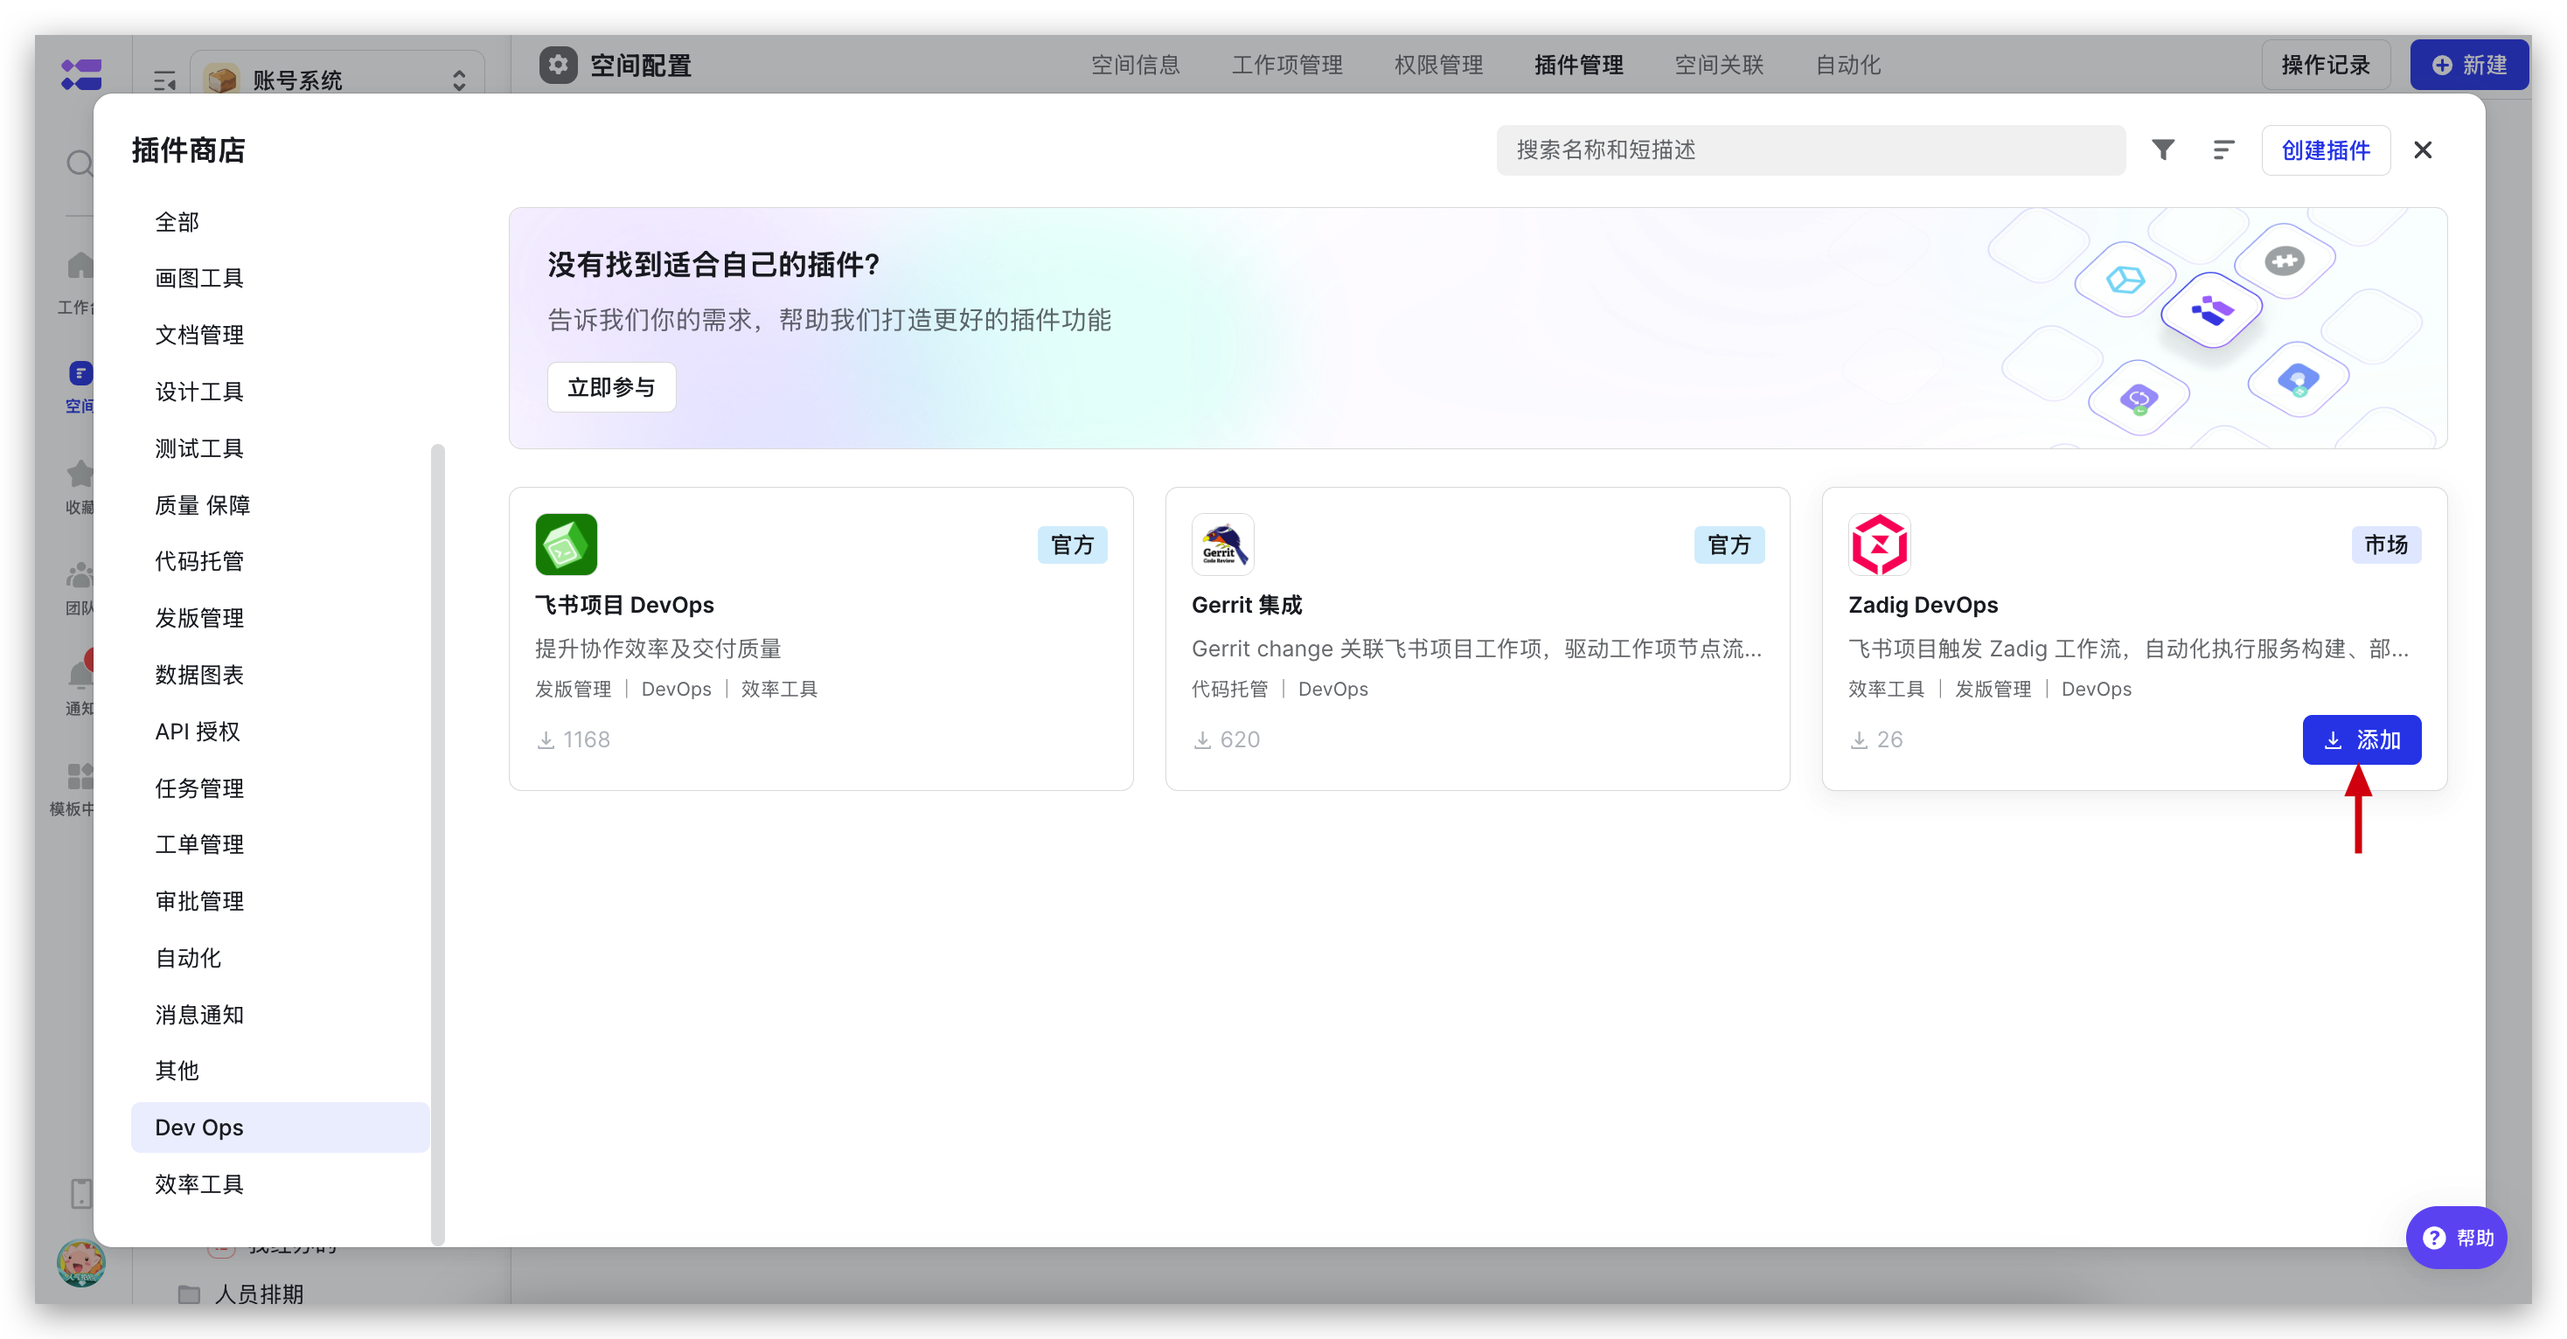
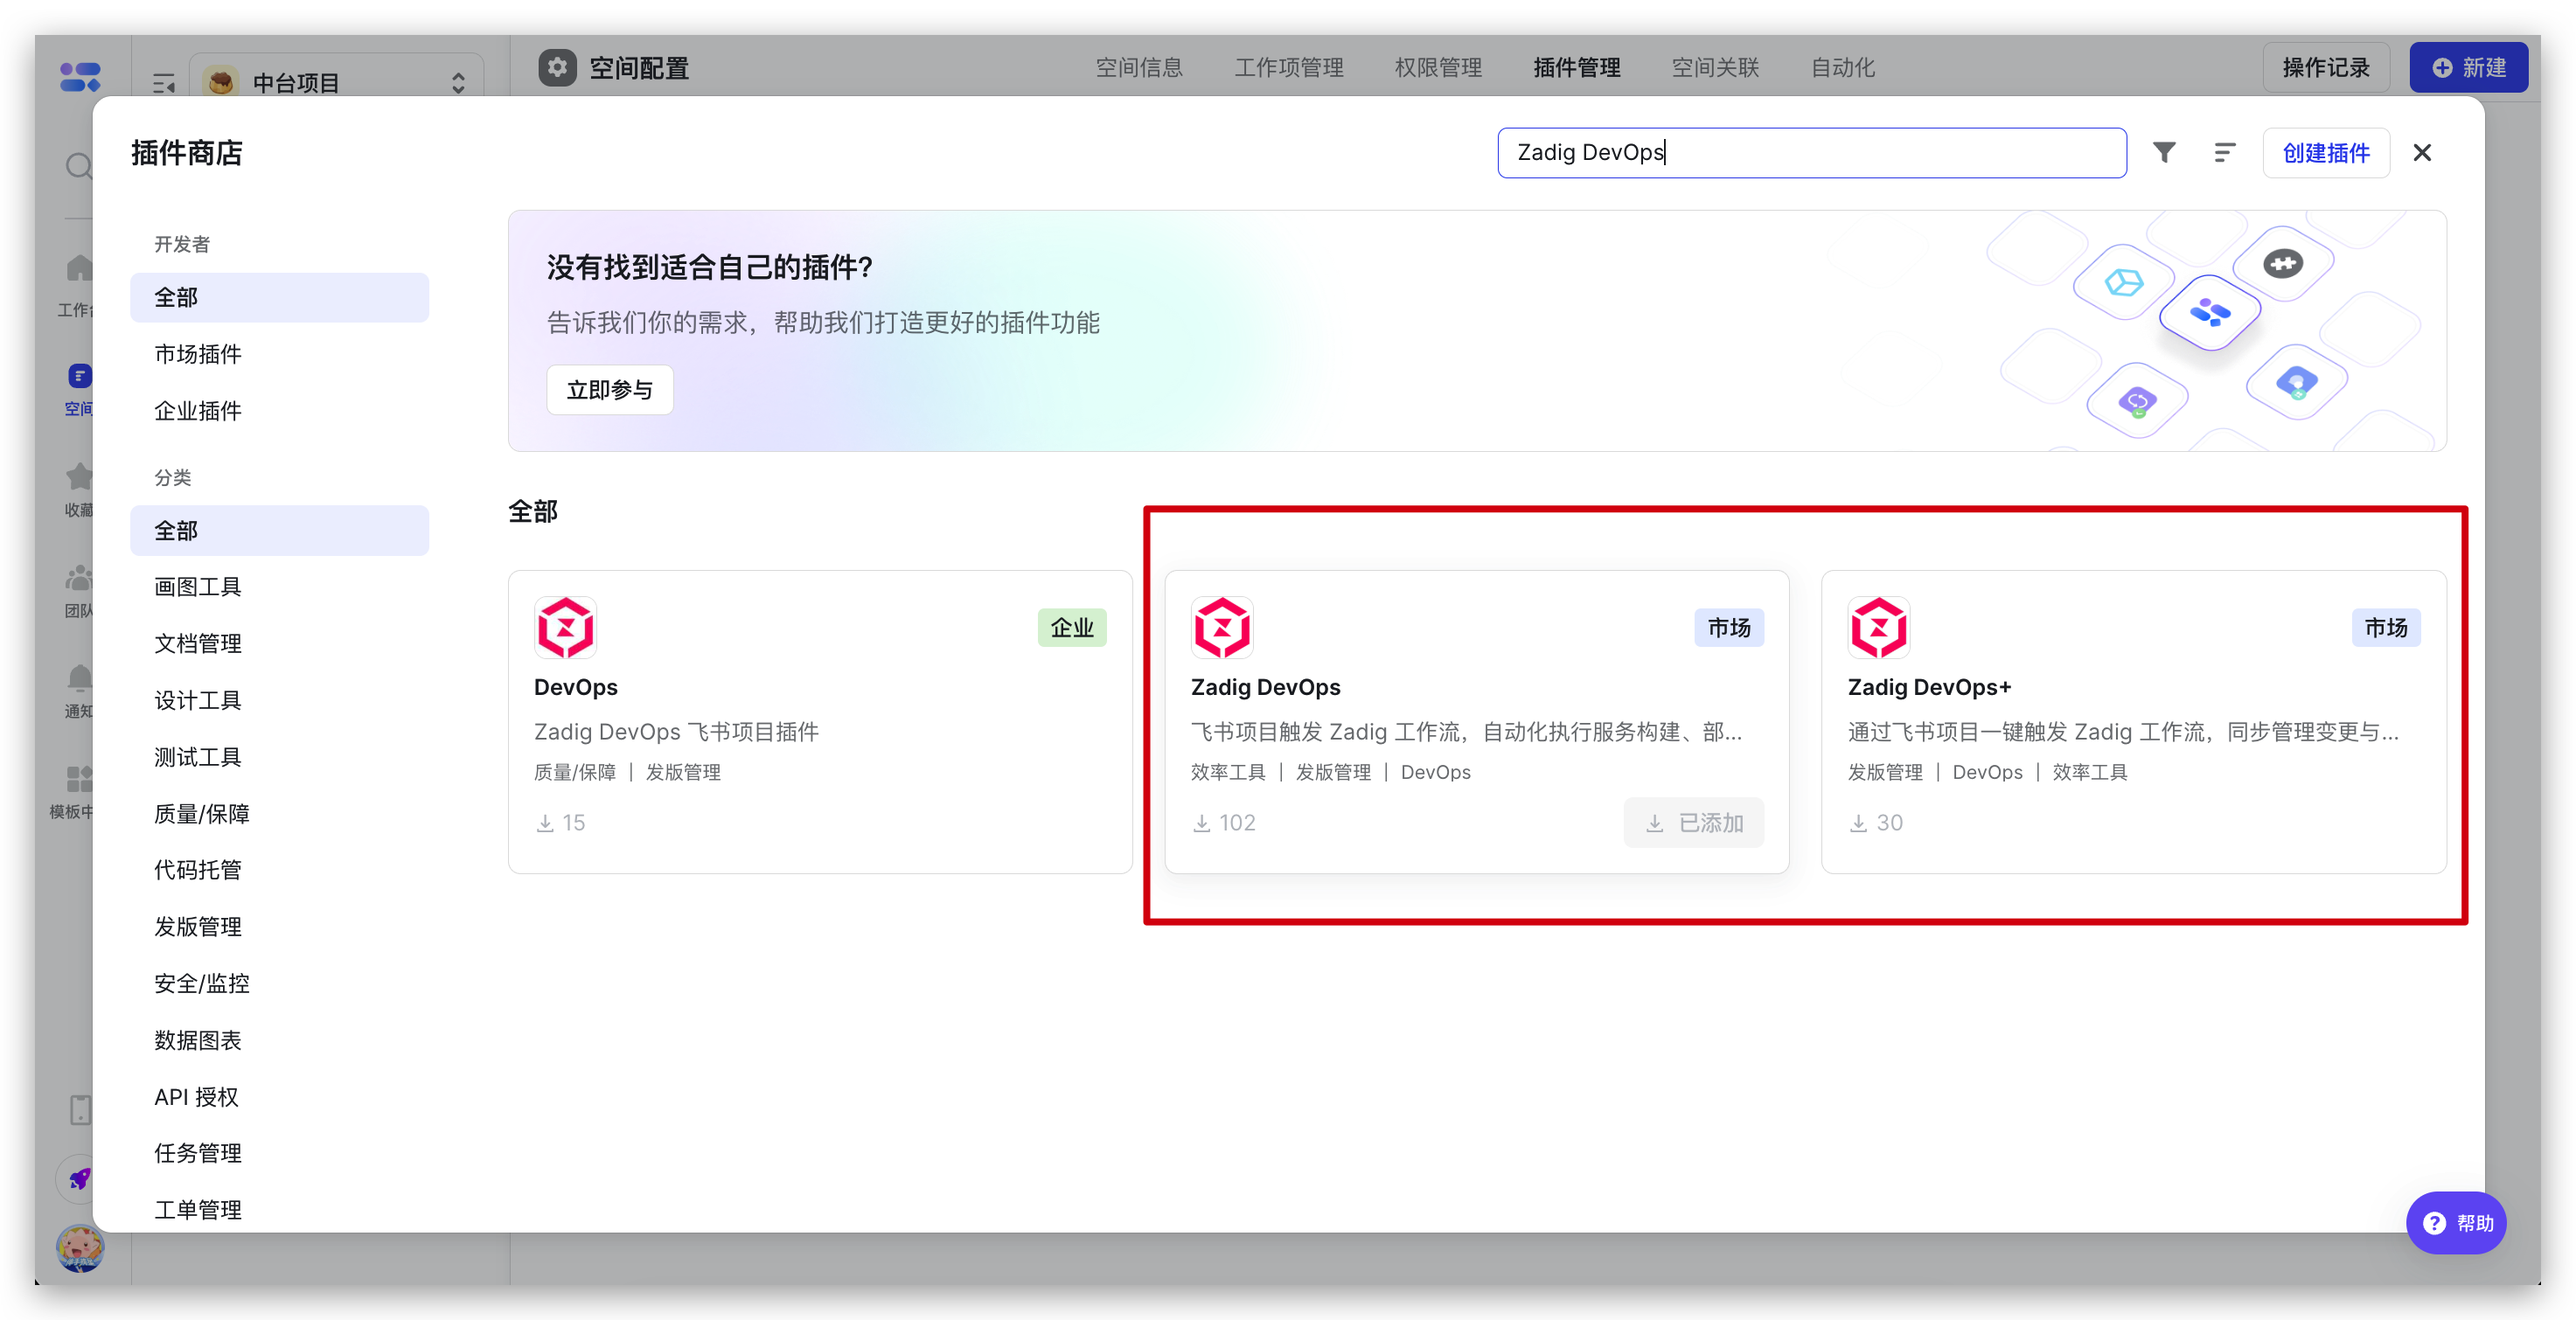
Update meego plugin docs and images

diff --git a/en/Zadig v4.2/05.Features/29.meego-plugin.md b/en/Zadig v4.2/05.Features/29.meego-plugin.md
@@ -4,45 +4,76 @@ date: 2025-10-09 15:32:35
 permalink: /en/Zadig v4.2/meego-plugin/
 ---
 
-The Zadig DevOps Lark Project Plugin allows triggering Zadig workflows from Lark Project, automating service build, deployment, and release operations to improve efficiency and ensure quality.
+Zadig Lark Project plugins enable triggering Zadig workflows from Lark Project, automating service build, deployment, and release operations to improve efficiency and ensure quality. Two plugins are available: **Zadig DevOps** and **Zadig DevOps+**.
 
-## Plugin Configuration
+Zadig DevOps works out of the box with zero configuration and suits small teams for quick integration and simple release scenarios. Zadig DevOps+ builds on it with change tracing, release order management, bidirectional data sync, and customization for large enterprises with complex release and compliance needs.
 
-### Install Plugin
+## Install Plugin
 
-Lark Project space administrators can find the "Zadig DevOps" plugin in plugin management, click "Add" to complete installation.
+Lark Project space administrators can find the "Zadig DevOps" or "Zadig DevOps+" plugin in plugin management and click "Add" to complete installation.
 
 ![Zadig DevOps](../../_images/meego_plugin_1.png)
 
+## Zadig DevOps+
+
 ### Plugin Configuration
 
-After installation, find the installed "Zadig DevOps" plugin in plugin management, click "Configure" on the right to start configuring the plugin.
+After installation, find the installed "Zadig DevOps+" plugin in plugin management and click "Configure" on the right. Set the mapping between each phase and Zadig workflows, as well as the branch strategy.
 
-![Zadig DevOps](../../_images/meego_plugin_2.png)
+![Zadig DevOps+](../../_images/meego_plugin+_1.png)
+![Zadig DevOps+](../../_images/meego_plugin+_2.png)
 
-Configure the corresponding relationship between work item nodes and Zadig workflows, as shown in the figure below.
+### Use Cases
 
-![Zadig DevOps](../../_images/meego_plugin_3.png)
+Zadig DevOps+ provides end-to-end change tracing and release order management for large enterprises. Developers submit change information (associated services, branches) in Lark Project and add it to release orders. Test results are automatically synced back, and releases use change information from the order directly. After confirmation, one-click release; execution runs automatically upon approval.
 
-## Use Cases
+**Development Phase: Submit Changes and Associate with Release Order**
 
-### Development and Self-Testing Phase: Update Development Environment and Perform Self-Testing Integration
+After development, developers submit change information (associated services, branches) in Lark Project and add it to the release order with one click. Changes can be reused multiple times. No system switching required; change records remain clear.
 
-Directly execute Zadig development workflows on Lark Project development nodes, automatically performing code scanning, unit testing, building, deployment, smoke testing, and other processes. Combined with configuration changes, data changes, and other capabilities, achieve consistent changes in the development process, reduce frequent system switching costs, and improve development efficiency.
+![Zadig DevOps+](../../_images/meego_plugin+_3.png)
+
+**Test Phase: View Execution Results in Real Time**
+
+After the test node runs a workflow, execution results are automatically synced to Lark Project. Pass/fail status at each stage is visible at a glance for quick response.
+
+![Zadig DevOps+](../../_images/meego_plugin+_4.png)
+
+**Release Phase: One-Click Release After Confirming Changes**
+
+When the release node runs a workflow, it uses change information from the release order. After confirming code is merged, release can proceed. Execution runs automatically after approval. The release process is efficient and controllable.
+
+<img src="../../_images/meego_plugin+_5.png" alt="Zadig DevOps+" width="400">
+<img src="../../_images/meego_plugin+_6.png" alt="Zadig DevOps+" width="400">
+
+## Zadig DevOps
+
+### Plugin Configuration
+
+After installation, find the installed "Zadig DevOps" plugin in plugin management and click "Configure" on the right to start configuration. Configure the corresponding relationship between work item nodes and Zadig workflows, as shown in the figures below.
+
+<img src="../../_images/meego_plugin_2.png" alt="Zadig DevOps" width="400">
+<img src="../../_images/meego_plugin_3.png" alt="Zadig DevOps" width="400">
+
+### Use Cases
+
+**Development and Self-Testing Phase: Update Development Environment and Perform Self-Testing Integration**
+
+Execute Zadig development workflows directly on Lark Project development nodes. Automate code scanning, unit testing, build, deployment, smoke testing, and other steps. Combined with configuration and data changes, achieve consistent changes in development, reduce system switching, and improve efficiency.
 
 <img src="../../_images/meego_plugin_4.png" alt="Development and Self-Testing Phase Diagram" width="400">
 <img src="../../_images/meego_plugin_5.png" alt="Development and Self-Testing Phase Diagram" width="400">
 
-### Integration Verification Phase: Update Test Environment and Perform Automated Verification
+**Integration Verification Phase: Update Test Environment and Perform Automated Verification**
 
-Directly execute Zadig test workflows on Lark Project test nodes, automatically completing interface testing, performance testing, security scanning, and other full processes to improve test verification efficiency and quality.
+Execute Zadig test workflows directly on Lark Project test nodes. Automate interface testing, performance testing, security scanning, and other steps to improve test verification efficiency and quality.
 
 <img src="../../_images/meego_plugin_6.png" alt="Integration Verification Phase Diagram" width="400">
 <img src="../../_images/meego_plugin_7.png" alt="Integration Verification Phase Diagram" width="400">
 
-### Production Release Phase: Combine Lark Approval for Production Release
+**Production Release Phase: Combine Lark Approval for Production Release**
 
-Directly execute Zadig release workflows on Lark Project release nodes, automatically completing service updates, configuration changes, data changes, and other processes. Combined with Lark approval applications, achieve efficient and stable releases.
+Execute Zadig release workflows directly on Lark Project release nodes. Automate service updates, configuration changes, data changes, and other steps. Combined with Lark approval, achieve efficient and stable releases.
 
 <img src="../../_images/meego_plugin_8.png" alt="Production Release Phase Diagram" width="400">
 <img src="../../_images/meego_plugin_9.png" alt="Production Release Phase Diagram" width="400">

diff --git a/cn/Zadig v4.2/05.功能介绍及最佳实践/29.meego-plugin.md b/cn/Zadig v4.2/05.功能介绍及最佳实践/29.meego-plugin.md
@@ -4,44 +4,73 @@ date: 2025-10-09 15:32:35
 permalink: /cn/Zadig v4.2/meego-plugin/
 ---
 
-Zadig DevOps 飞书项目插件允许在飞书项目触发 Zadig 工作流，自动化执行服务构建、部署、发布等操作，提升效率保障质量。
+Zadig 飞书项目插件支持在飞书项目触发 Zadig 工作流，自动化执行服务构建、部署、发布等操作，提升效率保障质量。目前提供 **Zadig DevOps** 和 **Zadig DevOps+** 两款插件。
 
-## 插件配置
+Zadig DevOps 开箱即用、零配置，适合小团队快速集成与简单发布场景。Zadig DevOps+ 在其基础上增强变更追溯、发布单管理、双向数据同步及定制能力，面向大型企业复杂发布与安全合规需求。
 
-### 安装插件
+## 安装插件
 
-飞书项目空间管理员在插件管理中找到「Zadig DevOps」插件，点击“添加” 完成安装。
+飞书项目空间管理员在插件管理中找到「Zadig DevOps」或「Zadig DevOps+」插件，点击「添加」完成安装。
 
 ![Zadig DevOps](../../_images/meego_plugin_1.png)
 
+## Zadig DevOps+
+
 ### 插件配置
 
-安装完成后，在插件管理中找到安装好的「Zadig DevOps」插件，点击右侧“配置”开始配置插件。
+安装完成后，在插件管理中找到已安装的「Zadig DevOps+」插件，点击右侧「配置」，设置各阶段与 Zadig 工作流的对应关系及分支策略。
+![Zadig DevOps+](../../_images/meego_plugin+_1.png)
+![Zadig DevOps+](../../_images/meego_plugin+_2.png)
 
-![Zadig DevOps](../../_images/meego_plugin_2.png)
+### 使用场景
 
-配置工作项各个节点和 Zadig 工作流的对应关系，如下图所示。
+Zadig DevOps+ 为大型企业提供全链路变更追溯与发布单管理。开发在飞书项目提交变更信息（关联服务、分支）并纳入发布单，测试阶段执行结果自动回传，发布时直接使用发布单中的变更信息，确认后一键发布，审批通过自动执行。
 
-![Zadig DevOps](../../_images/meego_plugin_3.png)
+**开发阶段：变更提交与发布单关联**
 
-## 使用场景
+开发完成后，开发在飞书项目提交变更信息（关联服务、分支），并一键纳入发布单，变更可多次复用。无需切换系统，变更记录清晰可见。
 
-### 开发自测阶段：更新开发环境并进行自测联调
+![Zadig DevOps+](../../_images/meego_plugin+_3.png)
+
+**测试阶段：执行结果实时查看**
+
+测试节点执行工作流后，执行结果自动回传到飞书项目，各阶段通过情况一目了然，方便快速响应。
+
+![Zadig DevOps+](../../_images/meego_plugin+_4.png)
+
+**发布阶段：确认变更后一键发布**
+
+发布节点执行工作流时，直接使用发布单中的变更信息，确认代码已合并后即可发布，审批通过后自动执行。发布过程高效可控。
+
+<img src="../../_images/meego_plugin+_5.png" alt="Zadig DevOps+" width="400">
+<img src="../../_images/meego_plugin+_6.png" alt="Zadig DevOps+" width="400">
+
+## Zadig DevOps
+
+### 插件配置
+
+安装完成后，在插件管理中找到已安装的「Zadig DevOps」插件，点击右侧「配置」开始配置。配置工作项各个节点和 Zadig 工作流的对应关系，如下图所示。
+
+<img src="../../_images/meego_plugin_2.png" alt="Zadig DevOps" width="400">
+<img src="../../_images/meego_plugin_3.png" alt="Zadig DevOps" width="400">
+
+### 使用场景
+
+**开发自测阶段：更新开发环境并进行自测联调**
 
 在飞书项目开发节点上直接执行 Zadig 开发工作流，自动化执行代码扫描、单元测试、构建、部署、冒烟测试等过程，结合配置变更、数据变更等能力实现开发过程一致性变更，减少频繁的系统切换成本，提升研发效率。
 
 <img src="../../_images/meego_plugin_4.png" alt="开发自测阶段示意图" width="400">
 <img src="../../_images/meego_plugin_5.png" alt="开发自测阶段示意图" width="400">
 
-### 集成验证阶段：更新测试环境并进行自动化验证
+**集成验证阶段：更新测试环境并进行自动化验证**
 
 在飞书项目测试节点直接执行 Zadig 测试工作流，自动化完成接口测试、性能测试、安全扫描等全流程，提升测试验证效率和质量。
 
 <img src="../../_images/meego_plugin_6.png" alt="集成验证阶段示意图" width="400">
 <img src="../../_images/meego_plugin_7.png" alt="集成验证阶段示意图" width="400">
 
-
-### 生产发布阶段：结合飞书审批进行生产发布
+**生产发布阶段：结合飞书审批进行生产发布**
 
 在飞书项目发布节点直接执行 Zadig 发布工作流，自动化完成服务更新、配置变更、数据变更等过程，结合飞书审批应用，实现高效、稳定的发布。
 
